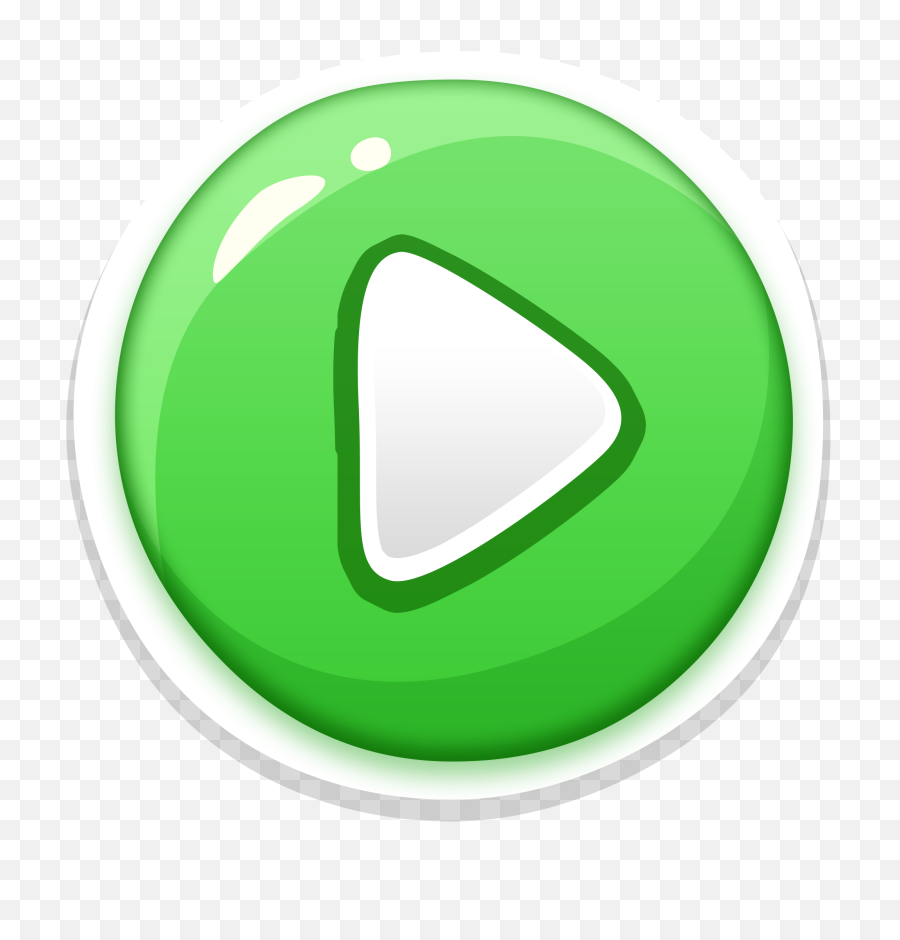
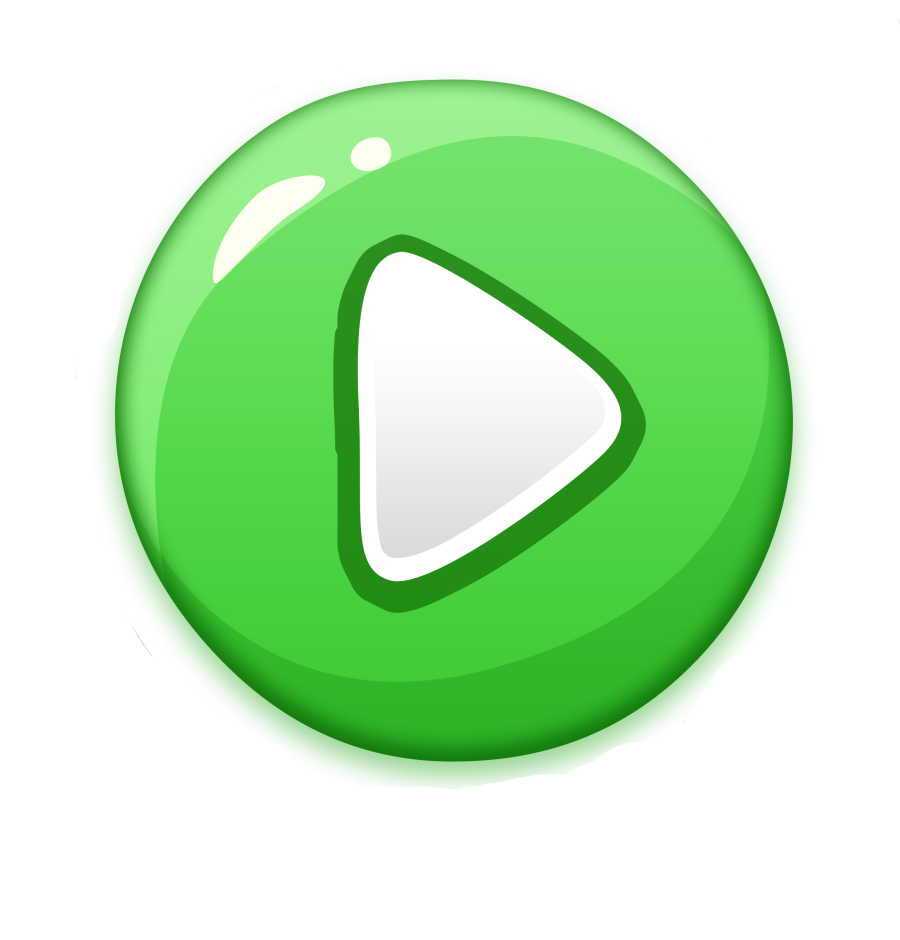
set

diff --git a/Asset/classes/index2.html b/Asset/classes/index2.html
@@ -10,8 +10,9 @@
     <link rel="stylesheet" href="../style.cs/style1.css">
 </head>
 <style>
-    #duaimg{
+    .dua1{
         margin-top: -50px;
+        transform: scale(0.6);
     }
      #incre{
         background-color: #a4133c;
@@ -54,10 +55,12 @@
         #head {
             transform: scale(0.9);
         }
+        .dua1{
+            transform: scale(0.3);
+            margin-right: 250px;
+        }
 
-        #duaimg {
-            transform: scale(0.8);
-        }.rows{
+        .rows{
             display: block;
         }.play{
             margin-top: 0;
@@ -74,10 +77,10 @@
         <div class="rows">
 
             <div class="play">
-                <img id="img2" src="../images/pla button.png" alt="" width="60">
+                <img id="img2" src="../images/next5.png" alt="" width="90" style="border-radius: 70px;">    
             </div>
 
-            <div class="dua1" style="transform: scale(0.6);">
+            <div class="dua1">
                 <img id="duaimg" src="../images/falaq (1).jpg" alt="" width="900">
             </div>
 

diff --git a/Asset/classes/index1.html b/Asset/classes/index1.html
@@ -51,7 +51,7 @@
         }
          @media screen and (max-width:768px){
 			 .cont{
-                 height: 100vh;
+                 height: 100%;
                  overflow-x: hidden;
                  background-size: cover;
              }
@@ -98,7 +98,7 @@
         <div class="row">
         
             <div class="play col-md-12">
-                <img id="img2" src="../images/pause5.jpg" alt="" width="90">
+                <img id="img2" src="../images/next5.png" alt="" width="90" style="border-radius: 70px;">
             </div>
             <div class="trans2">
                 <button id="incre">Next</button>

diff --git a/Asset/javascript/main2.js b/Asset/javascript/main2.js
@@ -16,11 +16,11 @@ let play = document.querySelector(".play");
 play.addEventListener("click",function(){
     if(num2 == 0){
     audio.play();
-    change.src = "../images/pause.png";
+    change.src = "../images/pause6.jpg";
     num2 = 1;
     }else{
         num2 = 0;
-      change.src = "../images/pla button.png";
+      change.src = "../images/next5.png";
       audio.pause();
 
 

diff --git a/Asset/javascript/main3.js b/Asset/javascript/main3.js
@@ -17,11 +17,11 @@ let play = document.querySelector(".play");
 play.addEventListener("click",function(){
     if(num2 == 0){
     audio.play();
-    change.src = "../images/pause.png";
+    change.src = "../images/pause6.jpg";
     num2 = 1;
     }else{
         num2 = 0;
-      change.src = "../images/play2.png";
+      change.src = "../images/next5.png";
     audio.pause();
     }
 

diff --git a/Asset/classes/index3.html b/Asset/classes/index3.html
@@ -54,7 +54,8 @@
           <div class="dis">
 
             <div class="play">
-                <img id="img2" src="../images/play2.png" alt="" width="60">
+            <img id="img2" src="../images/next5.png" alt="" width="90" style="border-radius: 70px;">
+
             </div>
 
         <div class="dua1 d-flex justify-content-center" style="transform: scale(0.9);">
